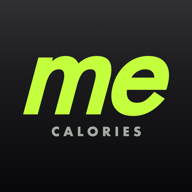
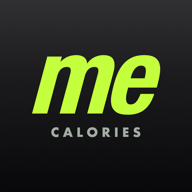
v10.36 图标改用 HN Condensed Bold + 4px 描边（字腔比 W3 大 52%）

Changed region(s): [[0.125, 0.2812, 0.9062, 0.625], [0.25, 0.6562, 0.75, 0.7188], [0.5938, 0.5625, 0.625, 0.5938]]

diff --git a/index.html b/index.html
@@ -7,11 +7,11 @@
 <meta name="apple-mobile-web-app-status-bar-style" content="black">
 <meta name="theme-color" content="#0a0b0c">
 <title>热量账本</title>
-<link rel="stylesheet" href="style.css?v=1019">
+<link rel="stylesheet" href="style.css?v=1020">
 <link rel="manifest" href="manifest.webmanifest">
 <!-- 换图标时必须改这里的 ?v=，否则 iOS 主屏图标会一直用缓存里的旧图 -->
-<link rel="apple-touch-icon" href="apple-touch-icon.png?v=1033">
-<link rel="icon" href="icon-192.png?v=1033">
+<link rel="apple-touch-icon" href="apple-touch-icon.png?v=1034">
+<link rel="icon" href="icon-192.png?v=1034">
 </head>
 <body>
 
@@ -457,10 +457,10 @@
   </div>
 </div>
 
-<script src="foods.js?v=1019"></script>
-<script src="icons.js?v=1019"></script>
-<script src="api.js?v=1019"></script>
-<script src="app.js?v=1019"></script>
+<script src="foods.js?v=1020"></script>
+<script src="icons.js?v=1020"></script>
+<script src="api.js?v=1020"></script>
+<script src="app.js?v=1020"></script>
 <script>
 /* 兜底：万一这次加载没完整（脚本没下来 / 执行出错），不要停在"全是破折号"的死界面。
    顺序：① 自己把没加载成功的脚本用 ?r=时间戳 再补一遍；② 还不行为一条可点重试的提示条，

diff --git a/app.js b/app.js
@@ -28,6 +28,11 @@ function nameLine(name, attr) {
 }
 
 const RELEASES = [
+  { v: 'v10.36', d: '10-29', items: [
+    '改：me 换成 Helvetica Neue Condensed Bold + 4px 同色描边 —— 你说 W3（Condensed Black）字腔堵死了，实测它墨占 68.8%、字腔只剩 1.28%',
+    '这版墨占 60.7%、字腔 1.94%（字腔面积比 W3 大 52%），笔画还是粗的，但 m 的两个拱、e 的口都通得出来',
+    '换图标地址版本号（?v=1034）',
+  ] },
   { v: 'v10.35', d: '10-29', items: [
     '改：图标里的 me 加粗 —— 同款 Futura Condensed ExtraBold 加 10px 同色描边（不是换字体，骨架还是耐克那支）',
     '每档加粗都重新做了像素对齐：视觉中心偏离 (0, 0)，四边留白 122 / 121 / 297 / 296',
@@ -3027,7 +3032,7 @@ const RELEASES = [
 
 
 // 版本号只在这里写一次，设置页和关于页都读它
-const APP_VERSION = 'v10.35';
+const APP_VERSION = 'v10.36';
 let groupMap = new Map();
 const WEEK = ['周日', '周一', '周二', '周三', '周四', '周五', '周六'];
 

diff --git a/sw.js b/sw.js
@@ -1,5 +1,5 @@
 /* 离线缓存：让 App 在没网的时候也能打开 */
-const CACHE = 'ledger-v1019';
+const CACHE = 'ledger-v1020';
 const ASSETS = [
   './',
   './index.html',
